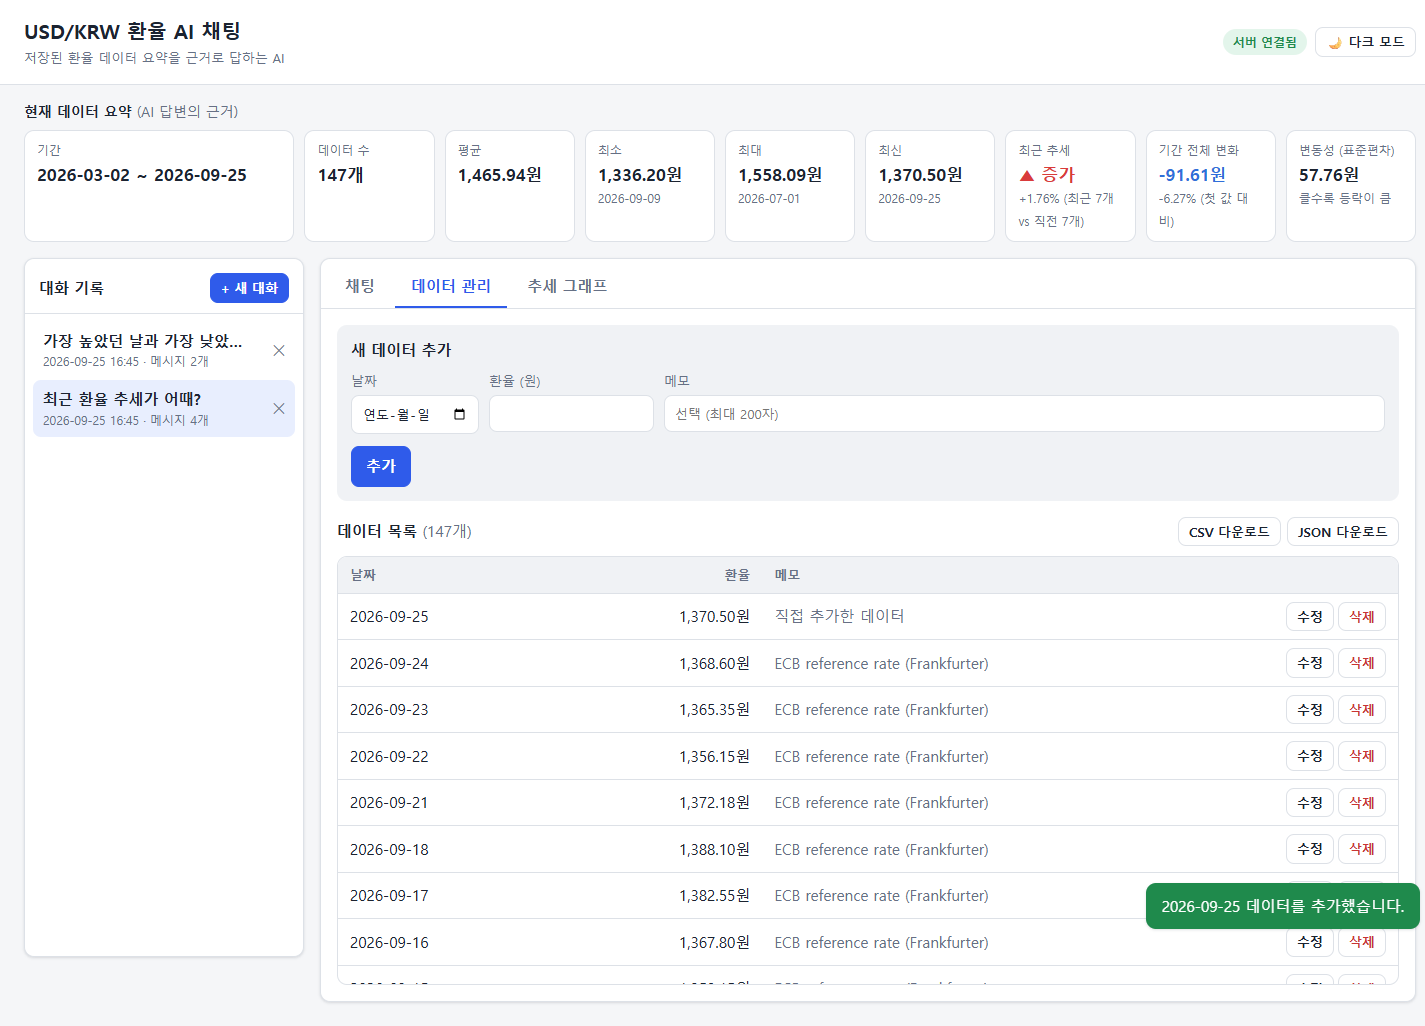
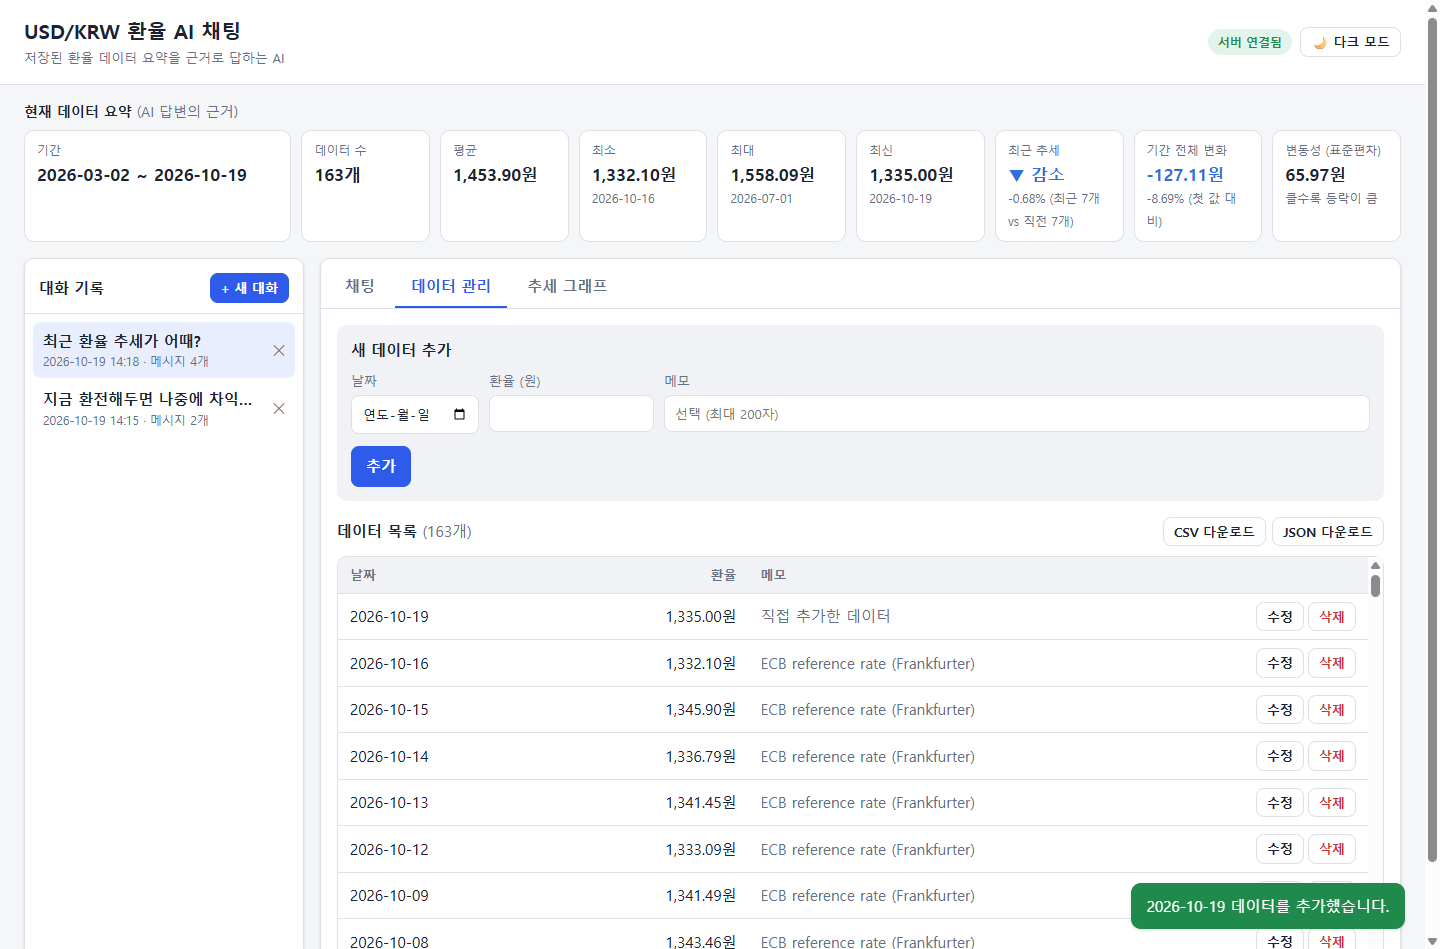
data: 환율 데이터를 2026-10-16까지 갱신 (146 → 162개)
- usdkrw.csv 재수집, Firestore에 신규 16건 적재
- README 수치, 주입 프롬프트 예시, AI 답변 예시 갱신
- 제출 스크린샷 4장을 배포 사이트에서 새 데이터로 재촬영
- fetch_fx_data.py 기본 종료일 변경

diff --git a/README.md b/README.md
@@ -50,7 +50,7 @@
 
 > **AI 답변 예시** (실제 응답)
 > **Q.** 기간 전체로 보면 흐름은 어땠어? 최근 추세와 비교해 줘.
-> **A.** 기간 전체로 보면, 첫 값 대비 최신 값이 93.51원 하락해 전체 변화율은 -6.40%입니다. 즉 전체 흐름은 하락이었지만, 최근 추세는 최근 7개 평균이 직전 7개 평균보다 1.94% 높은 단기 증가입니다.
+> **A.** 기간 전체로 보면 2026-03-02부터 2026-10-16까지 원/달러 환율은 첫 값 대비 최신 값이 130.01원 내려가며, 전체적으로 -8.89% 하락했습니다. 최근 추세도 감소로, 최근 7개 데이터 평균이 그 직전 7개 평균보다 0.69% 낮습니다. 즉, 전체 기간과 최근 단기 흐름이 모두 하락 방향이라는 점은 같습니다. 다만 최근 추세는 최근 7개와 직전 7개를 비교한 단기 신호라서, 기간 전체 변화폭(-8.89%)보다 훨씬 작은 움직임입니다.
 
 ---
 
@@ -107,7 +107,7 @@ pip install -r requirements.txt
 # 환경 변수 파일 만들기 → 값 채우기 (아래 5. 환경 변수 목록 참고)
 copy .env.example .env          # Windows  (macOS/Linux: cp .env.example .env)
 
-# (최초 1회) 환율 데이터 146건을 Firestore에 적재. 이미 있는 날짜는 건너뛴다.
+# (최초 1회) 환율 데이터 162건을 Firestore에 적재. 이미 있는 날짜는 건너뛴다.
 python scripts/seed_firestore.py
 
 # 서버 실행
@@ -164,15 +164,15 @@ python scripts/fetch_fx_data.py --summary   # Frankfurter API → data/usdkrw.cs
 ## 6. 제출 스크린샷
 
 ### ① 데이터 요약이 보이는 채팅 화면 (질문 + 답변)
-상단 **요약 카드(AI 답변의 근거)** 와 채팅 답변의 수치가 일치합니다. 최고 1,558.09원(2026-07-01), 최저 1,336.20원(2026-09-09).
+상단 **요약 카드(AI 답변의 근거)** 와 채팅 답변의 수치가 일치합니다. 최고 1,558.09원(2026-07-01), 최저 1,332.10원(2026-10-16).
 
 ![데이터 요약이 보이는 채팅 화면](docs/screenshots/01-chat-with-summary.png)
 
 ### ② 데이터 관리 화면 (CRUD: 추가 동작)
-`2026-09-25 / 1,370.50원 / 직접 추가한 데이터`를 **추가한 직후**의 화면입니다.
+`2026-10-19 / 1,335.00원 / 직접 추가한 데이터`를 **추가한 직후**의 화면입니다.
 - 알림 "데이터를 추가했습니다"가 뜬다
-- 목록 맨 위에 새 행이 생기고, 개수가 146 → **147개**가 된다
-- 요약이 즉시 갱신된다 (최신 1,370.50원, 평균 1,465.94원)
+- 목록 맨 위에 새 행이 생기고, 개수가 162 → **163개**가 된다
+- 요약이 즉시 갱신된다 (최신 1,335.00원, 평균 1,453.90원)
 
 각 행의 **수정 / 삭제** 버튼도 동작하고, **CSV / JSON 다운로드**도 이 화면에 있습니다.
 
@@ -226,9 +226,9 @@ python scripts/fetch_fx_data.py --summary   # Frankfurter API → data/usdkrw.cs
 {
   "conversation_id": "YYsuEjdP8B73pl05rZTT",
   "title": "최근 환율 추세가 어때?",
-  "reply": "최근 추세는 증가입니다. 최근 7개 데이터의 평균이 ...",
+  "reply": "최근 추세는 감소입니다. 최근 7개 데이터의 평균이 ...",
   "model": "gpt-5.4",
-  "summary": { "count": 146, "mean": 1466.6, "trend": { "direction": "increase", "change_pct": 1.94, "window": 7 }, ... }
+  "summary": { "count": 162, "mean": 1454.63, "trend": { "direction": "decrease", "change_pct": -0.69, "window": 7 }, ... }
 }
 ```
 
@@ -246,8 +246,8 @@ python scripts/fetch_fx_data.py --summary   # Frankfurter API → data/usdkrw.cs
 |---|---|
 | 데이터 | **USD/KRW 일별 환율** (유럽중앙은행 ECB 기준환율) |
 | 출처 | [Frankfurter API](https://frankfurter.dev) (무료, API 키 불필요) |
-| 기간 | 2026-03-02 ~ 2026-09-24 (영업일) |
-| 개수 | **146개** (요구사항: 100개 이상) |
+| 기간 | 2026-03-02 ~ 2026-10-16 (영업일) |
+| 개수 | **162개** (요구사항: 100개 이상) |
 | 형태 | `(date, value, memo)`. 원본은 [`backend/data/usdkrw.csv`](backend/data/usdkrw.csv) |
 
 **선정 이유**: 실제 경제 데이터라 추세(상승·하락·반등)가 뚜렷해서, AI가 요약을 근거로 설명하는 모습을 확인하기 좋습니다. 수집 스크립트(`fetch_fx_data.py`)가 있어서 언제든 같은 방법으로 다시 받을 수 있습니다.
@@ -255,16 +255,16 @@ python scripts/fetch_fx_data.py --summary   # Frankfurter API → data/usdkrw.cs
 ### 분석 결과 (= `/api/data/summary`)
 | 지표 | 값 | 계산 방법 |
 |---|---|---|
-| 기간 / 개수 | 2026-03-02 ~ 2026-09-24 / 146개 | 날짜 정렬 후 처음·끝 |
-| 평균 | 1,466.60원 | 산술 평균 |
-| 최소 | 1,336.20원 (2026-09-09) | |
+| 기간 / 개수 | 2026-03-02 ~ 2026-10-16 / 162개 | 날짜 정렬 후 처음·끝 |
+| 평균 | 1,454.63원 | 산술 평균 |
+| 최소 | 1,332.10원 (2026-10-16) | |
 | 최대 | 1,558.09원 (2026-07-01) | |
-| 최신 | 1,368.60원 (2026-09-24) | 가장 최근 날짜의 값 |
-| **최근 추세** | **증가 (+1.94%)** | 최근 7개 평균을 직전 7개 평균과 비교. \|변화율\| < 0.5%면 "유지" |
-| 기간 전체 변화 (보너스) | -93.51원 (-6.40%) | 첫 값 → 최신 값 |
-| 변동성 (보너스) | 57.41원 | 표본 표준편차 |
+| 최신 | 1,332.10원 (2026-10-16) | 가장 최근 날짜의 값 |
+| **최근 추세** | **감소 (-0.69%)** | 최근 7개 평균을 직전 7개 평균과 비교. \|변화율\| < 0.5%면 "유지" |
+| 기간 전체 변화 (보너스) | -130.01원 (-8.89%) | 첫 값 → 최신 값 |
+| 변동성 (보너스) | 65.51원 | 표본 표준편차 |
 
-> **해석**: 7월 초 고점(1,558원) 이후 9월 초까지 크게 하락했고, 최근 2주는 반등 중입니다. "최근 추세"만 보면 상승으로 오해할 수 있어서, 보너스로 **기간 전체 변화**를 추가해 AI가 장기와 단기 흐름을 구분해 설명하도록 했습니다.
+> **해석**: 7월 초 고점(1,558원) 이후 하락해 9월 초 저점을 찍고, 9월 말 잠시 반등했다가 다시 내려와 10월 16일에 기간 최저(1,332.10원)를 기록했습니다. 반등 구간에서는 "최근 추세"가 증가로 나와 상승으로 오해할 수 있어서, 보너스로 **기간 전체 변화**를 추가해 AI가 장기와 단기 흐름을 구분해 설명하도록 했습니다.
 > 주말·공휴일(비영업일)은 보간하지 않고, 추세는 날짜가 아니라 **데이터 포인트 개수** 기준으로 계산합니다.
 
 ---
@@ -275,7 +275,7 @@ python scripts/fetch_fx_data.py --summary   # Frankfurter API → data/usdkrw.cs
 
 ```mermaid
 flowchart LR
-    A[Frankfurter API] -->|fetch_fx_data.py| B[usdkrw.csv<br/>146행]
+    A[Frankfurter API] -->|fetch_fx_data.py| B[usdkrw.csv<br/>162행]
     B -->|seed_firestore.py<br/>Pydantic 검증| C[(Firestore<br/>data)]
     C -->|GET /api/data| D[build_summary<br/>순수 함수]
     D --> E["/api/data/summary<br/>화면 요약 카드"]
@@ -331,8 +331,8 @@ flowchart LR
 
 ```text
 data/{자동ID}
-  ├─ date: "2026-09-24"        ← ISO 문자열: 문자열 정렬 = 날짜 정렬
-  ├─ value: 1368.6
+  ├─ date: "2026-10-16"        ← ISO 문자열: 문자열 정렬 = 날짜 정렬
+  ├─ value: 1332.1
   ├─ memo: "ECB reference rate (Frankfurter)"
   ├─ created_at, updated_at    ← SERVER_TIMESTAMP
 
@@ -380,14 +380,14 @@ sequenceDiagram
 너는 사용자가 저장한 USD/KRW(원/달러) 일별 환율 데이터를 설명하는 한국어 어시스턴트다.
 
 [데이터 요약]
-- 기간: 2026-03-02 ~ 2026-09-24 (146개 데이터)
-- 평균: 1,466.60원
-- 최소: 1,336.20원 (2026-09-09)
+- 기간: 2026-03-02 ~ 2026-10-16 (162개 데이터)
+- 평균: 1,454.63원
+- 최소: 1,332.10원 (2026-10-16)
 - 최대: 1,558.09원 (2026-07-01)
-- 최신: 1,368.60원 (2026-09-24)
-- 최근 추세: 증가 (최근 7개 평균이 직전 7개 평균 대비 +1.94%)
-- 기간 전체 변화: 첫 값 대비 최신 값 -93.51원 (-6.40%)
-- 변동성(표준편차): 57.41원
+- 최신: 1,332.10원 (2026-10-16)
+- 최근 추세: 감소 (최근 7개 평균이 직전 7개 평균 대비 -0.69%)
+- 기간 전체 변화: 첫 값 대비 최신 값 -130.01원 (-8.89%)
+- 변동성(표준편차): 65.51원
 
 [답변 규칙]
 1. 위 [데이터 요약]에 있는 수치만 근거로 답한다. 요약에 없는 특정 날짜의 값, 미래 환율, 변동 원인은 추측하지 말고 "제공된 데이터 요약에는 없는 정보입니다"라고 밝힌다.
@@ -398,7 +398,7 @@ sequenceDiagram
 ```
 
 **설계 포인트**
-- **왜 원시 데이터 146행 대신 요약인가?** 토큰 비용이 작고(요약은 수백 토큰), 계산은 서버가 정확히 하며, GPT는 설명만 합니다. 그래서 수치 환각이 줄어듭니다.
+- **왜 원시 데이터 162행 대신 요약인가?** 토큰 비용이 작고(요약은 수백 토큰), 계산은 서버가 정확히 하며, GPT는 설명만 합니다. 그래서 수치 환각이 줄어듭니다.
 - **요약을 JSON이 아니라 문장 목록으로 넣는 이유**: 모델이 읽기 쉽고, 단위(원, %)와 의미("최근 7개 vs 직전 7개")를 함께 전달할 수 있습니다.
 - **가드레일**: 요약 밖 추측을 금지하고, 투자 조언을 금지하고, 지시문 변경 요청을 거부합니다. 클라이언트는 `system` 역할의 메시지를 저장하거나 보낼 수 없습니다 (Pydantic에서 422).
 - **실패 처리**: GPT 호출이 실패하면 502를 돌려주고 **아무것도 저장하지 않습니다**. 질문만 남은 반쪽 대화가 생기지 않습니다.
@@ -479,7 +479,7 @@ sequenceDiagram
 │   ├── scripts/
 │   │   ├── fetch_fx_data.py     # Frankfurter → CSV
 │   │   └── seed_firestore.py    # CSV → Firestore (여러 번 실행해도 안전)
-│   ├── data/usdkrw.csv          # 146행
+│   ├── data/usdkrw.csv          # 162행
 │   ├── tests/                   # pytest 97개 + fakes.py(가짜 repository/LLM)
 │   ├── requirements.txt
 │   └── .env.example             # 환경 변수 이름만 (값 없음)

diff --git a/.claude/prds/fx-data-ai-chat.prd.md b/.claude/prds/fx-data-ai-chat.prd.md
@@ -69,7 +69,7 @@
 | 7 | 배포 & 문서화 | Render/Vercel URL로 접속할 수 있고, 배포된 `/docs`와 콜드스타트 안내가 확인되며, README와 스크린샷 3종이 완성된다 | complete | Render `https://ai-native-master-m1-2.onrender.com`, Vercel `https://ainativemasterm12-frontend-beryl.vercel.app`. 배포 환경에서 채팅·CRUD·대화 불러오기·CORS 확인, README 배포 URL 기입 완료 |
 
 ## Open Questions
-- [x] **정확히 어떤 시계열인가?** → USD/KRW 일별 환율 (ECB 기준, Frankfurter API), 2026-03-02 ~ 2026-09-24, 146개. 마일스톤 1에서 확정.
+- [x] **정확히 어떤 시계열인가?** → USD/KRW 일별 환율 (ECB 기준, Frankfurter API), 2026-03-02 ~ 2026-09-24, 146개. 마일스톤 1에서 확정. 2026-10-19에 ~2026-10-16까지 갱신해 162개.
 - [x] **초기 데이터를 어떻게 적재하나?** → `scripts/seed_firestore.py`로 CSV를 적재한다. 이미 있는 날짜는 건너뛴다. 마일스톤 2에서 146건 적재 완료.
 - [x] **같은 date의 중복 데이터를 허용하나?** → 허용하지 않는다. 생성·수정 시 409. 마일스톤 2에서 확정.
 - [x] **"최근 추세"의 정의** → 최근 7포인트 평균을 직전 7포인트 평균과 비교하고, ±0.5% 미만이면 유지. 마일스톤 1에서 확정.
